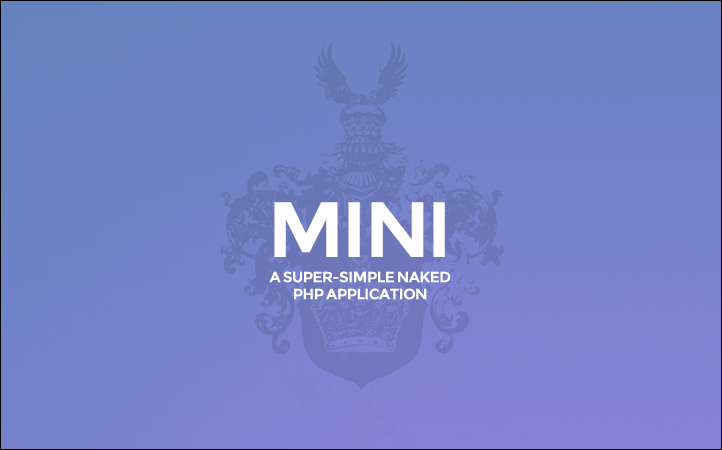
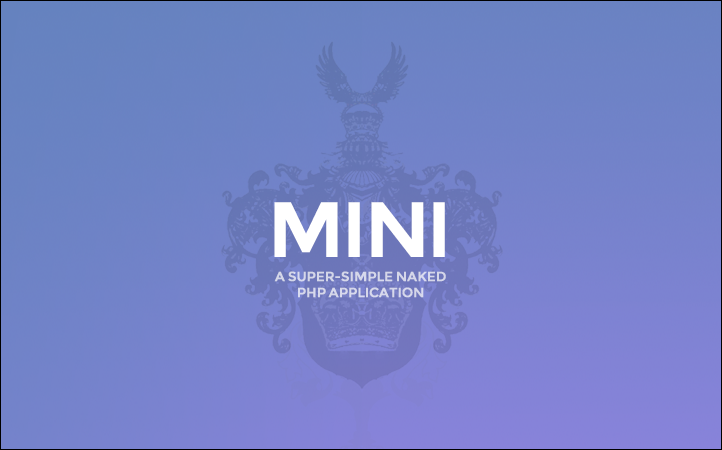
better promo image, lots of mod_rewrite guidelines links

Changed region(s): [[0.3657, 0.5911, 0.6399, 0.6844]]

diff --git a/README.md b/README.md
@@ -29,7 +29,12 @@ MINI is easy to install, runs nearly everywhere and doesn't make things more com
 1. Edit the database credentials in `application/config/config.php`
 2. Execute the .sql statements in the `_installation/`-folder (with PHPMyAdmin for example).
 3. Make sure you have mod_rewrite activated on your server / in your environment. Some guidelines:
-   [TODO Ubuntu 14.04 LTS, Ubuntu 12.04 LTS, EasyPHP on Windows, ...]
+   [Ubuntu 14.04 LTS](http://www.dev-metal.com/enable-mod_rewrite-ubuntu-14-04-lts/),
+   [Ubuntu 12.04 LTS](http://www.dev-metal.com/enable-mod_rewrite-ubuntu-12-04-lts/),
+   [EasyPHP on Windows](http://stackoverflow.com/questions/8158770/easyphp-and-htaccess),
+   [AMPPS on Windows/Mac OS](http://www.softaculous.com/board/index.php?tid=3634&title=AMPPS_rewrite_enable/disable_option%3F_please%3F),
+   [XAMPP for Windows](http://www.leonardaustin.com/blog/technical/enable-mod_rewrite-in-xampp/),
+   [MAMP on Mac OS](http://stackoverflow.com/questions/7670561/how-to-get-htaccess-to-work-on-mamp)
 
 MINI runs without any further configuration.
 
